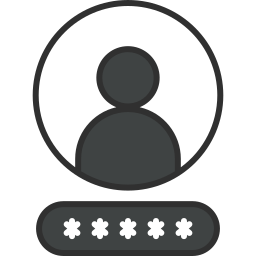
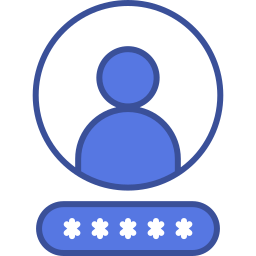
Iniciando tabla

diff --git a/src/components/ListProducts.jsx b/src/components/ListProducts.jsx
@@ -1,61 +1,124 @@
-import React, { useState } from 'react'
-import { onAuthStateChanged } from 'firebase/auth'
+import React, { useState, useEffect } from 'react'
+import { onAuthStateChanged, signOut } from 'firebase/auth'
 import { auth_user } from '../firebase/appConfig'
-import { signOut } from 'firebase/auth'
-import Login from './session/Login'
+import { useNavigate } from 'react-router-dom'
 import Styles from '../styles/ListProducts.module.css';
-import imgSlide1 from '../img/img7.jpg'
+import imgFondo from '../img/img7.jpg'
+import DataTable from 'react-data-table-component';
 
 export default function ListProducts() {
 	const [user, setUser] = useState(null)
-	const userStorage = JSON.parse(localStorage.getItem("user_firebase")) //{}
+	const navigate = useNavigate()
 
-	onAuthStateChanged(auth_user, (userFirebase) => {
-		if (userFirebase) {
-			console.log(userFirebase);
-			setUser(userFirebase)
-		} else {
-			setUser(null)
-		}
-	})
+	useEffect(() => {
+		const unsubscribe = onAuthStateChanged(auth_user, (userFirebase) => {
+			if (userFirebase) {
+				setUser(userFirebase)
+			} else {
+				setUser(null)
+				navigate('/login')
+			}
+		})
+		return () => unsubscribe()
+	}, [navigate])
 
 	const logout = () => {
 		signOut(auth_user).then(() => {
-			alert("La sesion se ha cerrado");
+			alert("La sesión se ha cerrado");
+			navigate('/login')
 		}).catch((error) => {
-			console.error("Error al cerrar sesion", error)
+			console.error("Error al cerrar sesión", error)
 		})
 	}
+
+	const data = [
+		{ id: 1, title: 'Primer título', year: 2000 },
+		{ id: 2, title: 'Segundo título', year: 2001 },
+		{ id: 3, title: 'Tercer título', year: 2002 },
+	];
+
+	const columns = [
+		{
+			name: 'ID',
+			selector: row => row.id,
+			sortable: true,
+		},
+		{
+			name: 'Título',
+			selector: row => row.title,
+			sortable: true,
+		},
+		{
+			name: 'Año',
+			selector: row => row.year,
+			sortable: true,
+		},
+	];
+
+	const [searchTerm, setSearchTerm] = useState('');
+
+  // Función para filtrar los datos
+  const filteredData = data.filter(item =>
+    item.title.toLowerCase().includes(searchTerm.toLowerCase())
+  );
 
 	return (
 		<div>
 			{
-				user ?
-					<>
-						<div>
-							<nav className="navbar navbar-expand-lg navbar-custom">
-								<div className="container flex-column">
-									<a className={Styles.nav_link_name} href="#"><span>•</span> minim <span>•</span></a>
-									<hr className={`${Styles.hr_nav} "border-1"`} />
-									<div className={`${Styles.div_nav} "navbar-links d-flex justify-content-center mt-2"`}>
-										<a className={Styles.nav_link} href="#productos">Productos</a>
-										<a className={Styles.nav_link} href="#sobre">Perfil</a>
-										<a className={Styles.nav_link} onClick={logout}>Cerrar Sesion</a>
-									</div>
-								</div>
-							</nav>
-							<div className={Styles.img_overlay}>
-								<img src={imgSlide1} className={`${Styles.img_slide} d-block`} alt="Image" />
-								<div className={Styles.carousel_caption}>
-									<h3>Bienvenido administrador</h3>
-									<p>Has iniciado sesión con: <span>{userStorage.email}</span></p>
+				user &&
+				<>
+					<div>
+						<nav className="navbar navbar-expand-lg navbar-custom">
+							<div className="container flex-column">
+								<a className={Styles.nav_link_name} href="#"><span>•</span> minim <span>•</span></a>
+								<hr className={`${Styles.hr_nav} "border-1"`} />
+								<div className={`${Styles.div_nav} "navbar-links d-flex justify-content-center mt-2"`}>
+									<a className={Styles.nav_link} href="#productos"><i className="bi bi-box-seam"></i> Productos</a>
+									<a className={Styles.nav_link} href="#sobre"><i className="bi bi-person"></i> Perfil</a>
+									<a className={Styles.nav_link} onClick={logout}><i className="bi bi-box-arrow-left"></i> Salir</a>
 								</div>
 							</div>
+						</nav>
+						<div className={Styles.img_overlay}>
+							<img src={imgFondo} className={`${Styles.img_slide} d-block`} alt="Image" />
+							<div className={Styles.carousel_caption}>
+								<h3>Bienvenido administrador</h3>
+								<div className={Styles.linea}></div>
+								<p>Has iniciado sesión con: <span>{user?.email}</span></p>
+							</div>
 						</div>
-					</>
-					: <Login />
+					</div>
+					<div className="container text-center mt-5" id="productos">
+						<div className="container flex-column">
+							<div className={Styles.title}>Productos</div>
+							<hr className={`${Styles.hr_title} border-2 `} />
+						</div>
+						<div className="mb-3 mt-3 input-group">
+							<span className="input-group-text">
+								<i className="bi bi-search"></i>
+							</span>
+							<input
+								type="text"
+								className={`${Styles.input_search}`} // Ajusta el ancho según necesites
+								placeholder="Buscar por título"
+								value={searchTerm}
+								onChange={e => setSearchTerm(e.target.value)}
+							/>
+						</div>
+						<DataTable
+							columns={columns}
+							data={filteredData}
+							pagination
+							selectableRows
+							// Puedes agregar más propiedades aquí según sea necesario
+							striped
+							highlightOnHover
+							noHeader
+							className="table table-striped"
+						/>
+					</div>
+				</>
 			}
-
 		</div>
 	)
 }

diff --git a/src/components/session/Login.jsx b/src/components/session/Login.jsx
@@ -54,9 +54,9 @@ export default function Login() {
 
     return (
         <>
-            <section className={`${Styles.card_estilo}`}>
+            <div className={`${Styles.card_estilo}`}>
                 <div className={`${Styles.card_body} card d-block mx-auto`}>
-                    <div className={Styles.card_linea}></div>
+                    {/* <div className={Styles.card_linea}></div> */}
                     <div className={`${Styles.card_contenido} card-body`}>
                         <img src={imgLogin} className='d-block mx-auto mb-2' alt="" />
                         <h4 className="card-title text-center">Iniciar sesión</h4>
@@ -97,9 +97,9 @@ export default function Login() {
                         </form>
                         <Button variant="link" onClick={handleShowRegisterModal}>¿Aún no tienes cuenta? Regístrate</Button>
                     </div>
-                    <div className={Styles.card_linea}></div>
+                    {/* <div className={Styles.card_linea}></div> */}
                 </div>
-            </section>
+            </div>
 
             <Modal show={showRegisterModal} onHide={handleCloseRegisterModal}>
                 <Modal.Header closeButton>

diff --git a/src/styles/ListProducts.module.css b/src/styles/ListProducts.module.css
@@ -84,8 +84,42 @@
 }
 
 .carousel_caption p {
-  font-size: 1.2rem;
+  font-size: 1rem;
 }
 .carousel_caption p span {
+    font-size: 1.2rem;
     font-weight: 900;
+}
+.carousel_caption .linea {
+    width: 50%; 
+    height: 2px; 
+    background-color: var(--first-color); /* Color de la línea */
+    margin: 10px auto; 
+}
+.title{
+  margin: 0px;
+	text-decoration: none;
+	color: var(--primary-color);
+	font-weight: 900;
+	font-size: 30px;
+}
+.hr_title{
+  margin: 0px;
+  width: 10%; 
+  color: var(--first-color);
+  opacity: .5;
+  margin: 0 auto;
+}
+.input_search{
+    width: 300px;
+    display: block;
+    padding: 0.375rem 0.75rem;
+    font-size: 1rem;
+    line-height: 1.5;
+    color: #495057;
+    background-color: #fff;
+    background-clip: padding-box;
+    border: 1px solid #ced4da;
+    border-radius: 0.25rem;
+    transition: border-color 0.15s ease-in-out, box-shadow 0.15s ease-in-out;
 }

diff --git a/src/styles/Session.module.css b/src/styles/Session.module.css
@@ -12,14 +12,18 @@
     width: 90px;
 }
 
-.card_linea{
-    padding: 2px;
-    background-color: var(--primary-color);
+.card_contenido h4{
+    font-weight: 600;
 }
+
+/*.card_linea{
+    padding: 1px;
+    background-color: var(--primary-color);
+}*/
 
 .card_button {
     padding: 10px;
-    background-color: var(--primary-color);
+    background-color: var(--first-color);
     color: white;
     border: none;
     border-radius: 4px;
@@ -27,8 +31,9 @@
 }
 
 .card_button:hover {
-    background-color: var(--primary-color);
+    background-color: var(--first-color-hover);
 }
+
 
 .btn_center {
     display: flex;

diff --git a/src/index.css b/src/index.css
@@ -2,9 +2,8 @@
 :root {
     --primary-color: #3f4343;
     --secondary-color: #ffffff;
-    --first-color: #FF4E00;
-    --first-color-hover: #cd3a00;
-    --second-color: #5677e2;
+    --first-color: #5677e2;
+    --first-color-hover: #3a5099;
     --hr-color:#ccc;
 }
 
